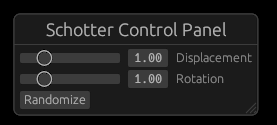
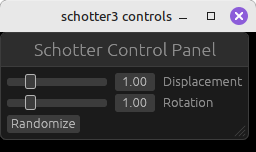
Misc. corrections

diff --git a/schotter4/src/main.rs b/schotter4/src/main.rs
@@ -220,7 +220,7 @@ fn key_pressed(app: &App, model: &mut Model, key: KeyCode) {
 
 fn update_ui(app: &App, model: &mut Model) {
     let ctx = app.egui_for_window(model.ui_window);
-    egui::Window::new("Schotter Control Panel").show(&ctx, |ui| {
+    egui::Window::new("Schotter Control Panel").collapsible(false).show(&ctx, |ui| {
         ui.add(egui::Slider::new(&mut model.disp_adj, 0.0..=5.0).text("Displacement"));
         ui.add(egui::Slider::new(&mut model.rot_adj, 0.0..=5.0).text("Rotation"));
         ui.add(egui::Slider::new(&mut model.motion, 0.0..=1.0).text("Motion"));

diff --git a/schotter3/src/main.rs b/schotter3/src/main.rs
@@ -157,7 +157,7 @@ fn key_pressed(app: &App, model: &mut Model, key: KeyCode) {
 
 fn update_ui(app: &App, model: &mut Model) {
         let ctx = app.egui_for_window(model.ui_window);
-        egui::Window::new("Schotter Control Panel").show(&ctx, |ui| {
+        egui::Window::new("Schotter Control Panel").collapsible(false).show(&ctx, |ui| {
             ui.add(egui::Slider::new(&mut model.disp_adj, 0.0..=5.0).text("Displacement"));
             ui.add(egui::Slider::new(&mut model.rot_adj, 0.0..=5.0).text("Rotation"));
             ui.horizontal(|ui| {

diff --git a/schotter2/src/main.rs b/schotter2/src/main.rs
@@ -139,3 +139,4 @@ fn key_pressed(app: &App, model: &mut Model, key: KeyCode) {
     }
 
 }
+

diff --git a/schotter3.md b/schotter3.md
@@ -9,21 +9,23 @@ As before, we create a new project in our Rust workspace with the command `cargo
 nannou = { workspace = true, features = ["egui"] }
 ```
 
+And copy our schotter2 main.rs code to schotter3 as our starting point. When compiling schotter3 for the first time, it will take a few minutes since Rust needs to compile the egui dependencies and recompile nannou and Bevy with the egui feature enabled.
+
 We still want to be able to save the generated image, and would like to do so without saving the control panel in the image, so we'll put the control panel in a second window. We start by creating that window.
 
 The main window is created in the model function by calling new_window. We just copy that invocation and make a few changes to create a second window:
 
 ```
-    let ui_window = app.new_window()
-                .always_on_top(true)
-                .title(app.exe_name().unwrap() + " controls")
-                .size(280, 130)
-                .view(ui_view)
-                .key_pressed(key_pressed)
-                .build();
+let ui_window = app.new_window()
+            .always_on_top(true)
+            .title(app.exe_name().unwrap() + " controls")
+            .size(280, 130)
+            .view(ui_view)
+            .key_pressed(key_pressed)
+            .build();
 ```
 
-Each window can have its own view and event functions. Here we set the view function to "ui_view". We use the same key_pressed function as for the main window so the keypresses we implemented in schotter2 will work even if the control panel window has the focus. The size is just a guess; we can adjust it later to make it fit the controls. Control panel development is often a process of trying some layout and then tweaking the placements and sizes to look right. We will need the window id when we create the User Interface, so we put it into a variable.
+Each window can have its own view and event functions. Here we set the view function to "ui_view". We use the same key_pressed function as for the main window so the keypresses we implemented in schotter2 will work even if the control panel window has the focus. The size is just a guess; we can adjust it later to make it fit the controls. Control panel development is often a process of trying some layout and then tweaking the placements and sizes to look right. We will need the window Entity when we create the User Interface, so we put it into a variable.
 
 Next, we need to create the new `ui_view` function (which does nothing; the control panel needs to be displayed from the update function so it can change the model variables):
 
@@ -48,20 +50,20 @@ Model {
 There is a problem with nannou version 0.20.0 that only allows egui controls to be displayed in first window that was created. The workaround is simple: make sure ui_window is created first. But to make sure the window where the schotter is displayed is the main window, we add `.primary()` to its new_window call. So here is the code to create the two windows:
 
 ```
-    let ui_window = app.new_window()
-                .always_on_top(true)
-                .title(app.exe_name().unwrap() + " controls")
-                .size(280, 130)
-                .view(ui_view)
-                .key_pressed(key_pressed)
-                .build();
-    let _window = app.new_window()
-                .primary()
-                .title(app.exe_name().unwrap())
-                .size(WIDTH, HEIGHT)
-                .view(view)
-                .key_pressed(key_pressed)
-                .build();
+let ui_window = app.new_window()
+            .always_on_top(true)
+            .title(app.exe_name().unwrap() + " controls")
+            .size(280, 130)
+            .view(ui_view)
+            .key_pressed(key_pressed)
+            .build();
+let _window = app.new_window()
+            .primary()
+            .title(app.exe_name().unwrap())
+            .size(WIDTH, HEIGHT)
+            .view(view)
+            .key_pressed(key_pressed)
+            .build();
 ```
 
 The egui library uses a GUI style called "immediate mode", where the GUI elements (called "widgets") are created and drawn as part of the update/draw loop, which works very well for programs like generative art and games. The alternative used by more traditional applications is "retained mode", where widgets are created during setup and maintained by the graphics library. This can be more efficient, but is also more complex since it requires synchronization between the data and widget states.
@@ -70,8 +72,8 @@ To begin, let's create a gui with a single "Randomize" button which will randomi
 
 ```
 fn update_ui(app: &App, model: &mut Model) {
-    let ctx = app.egui_for_window(model.window);
-    egui::Window::new("Schotter Control Panel").show(&ctx, |ui| {
+    let ctx = app.egui_for_window(model.ui_window);
+    egui::Window::new("Schotter Control Panel").collapsible(false).show(&ctx, |ui| {
         if ui.add(egui::Button::new("Randomize")).clicked() {
             model.random_seed = random_range(0, 1000000);
         }
@@ -79,7 +81,7 @@ fn update_ui(app: &App, model: &mut Model) {
 }
 ```
 
-The first line uses the `egui_for_window` function to get the "context" that we will use to add widgets. Then we create the control panel using `egui::Window::new("Schotter Control Panel")`. 
+The first line uses the `egui_for_window` function to get the egui "context" that we will use to add widgets. Then we create the control panel using `egui::Window::new("Schotter Control Panel")`. By default, egui panels have a button to collapse them to a tab, which is useful if the panel is in the same window as the sketch. But this isn't needed since we are using a separate window, so we include `collapsible(false)`.
 
 The next bit is some Rust magic, called a "closure". We won't get into the Rust details, but this is the syntax we need to build our control panel. The skeleton looks like this:
 
@@ -97,10 +99,10 @@ if ui.add(egui::Button::new("Randomize")).clicked() {
 }
 ```
 
-For our final step, we need to call `update_ui()` from `update()`; we'll add that as the very first line so we can get current values for all the variables:
+For our final step, we need to call `update_ui()` from `update()`; we'll add that as the very first line so we can get current values for all the variables. We will now need the app, so we remove the underscore before it.
 
 ```
-fn update(_app: &App, model: &mut Model) {
+fn update(app: &App, model: &mut Model) {
     update_ui(app, model);
 ```
 
@@ -125,7 +127,7 @@ By default, egui adds new widgets from top to bottom, so we just need to add two
 ```
 fn update_ui(app: &app, model: &mut Model) {
     let ctx = model.ui.begin_frame();
-    egui::Window::new("Schotter Control Panel").show(&ctx, |ui| {
+    egui::Window::new("Schotter Control Panel").collapsible(false).show(&ctx, |ui| {
         ui.add(egui::Slider::new(&mut model.disp_adj, 0.0..=5.0).text("Displacement"));
         ui.add(egui::Slider::new(&mut model.rot_adj, 0.0..=5.0).text("Rotation"));
         if ui.add(egui::Button::new("Randomize")).clicked() {
@@ -143,7 +145,7 @@ That was a lot of effort! The control panel code is as complicated as the genera
 
 Another advantage of a control panel that isn't quite so obvious is that is shows the values of the parameters used. Knowing them is essential if you ever need to replicate a particular output of the program. (Of course, that assumes that you record the values! Perhaps adding a way to save the parameters along with the image would be even better.)
 
-This is already long, but building on the potential need to replicate a particular output, we should show the current random seed value in the panel and allow it to be changed. We'll use another egui widget type for this: a DragValue. Since the seed value and the Randomize button are related, we'll put the DragValue widget to the right of the Randomize button. Widgets in egui are arranged vertically by default; to add a row of widgets, we use the `ui.horizontal()` method, which uses a closure just like the `show()` method:
+This is alrewait()ady long, but building on the potential need to replicate a particular output, we should show the current random seed value in the panel and allow it to be changed. We'll use another egui widget type for this: a DragValue. Since the seed value and the Randomize button are related, we'll put the DragValue widget to the right of the Randomize button. Widgets in egui are arranged vertically by default; to add a row of widgets, we use the `ui.horizontal()` method, which uses a closure just like the `show()` method:
 
 ```
 ui.horizontal(|ui| {

diff --git a/schotter4.md b/schotter4.md
@@ -61,6 +61,9 @@ If stone.cycles is greater than 0, we just add the velocity values to the curren
 
 ```
 fn update(_app: &App, model: &mut Model, _update: Update) {
+    if app.window_count() < 2 {
+        app.quit();
+    }
     update_ui(app, model);
     let mut rng = StdRng::seed_from_u64(model.random_seed);
     for stone in &mut model.gravel {
@@ -68,10 +71,10 @@ fn update(_app: &App, model: &mut Model, _update: Update) {
             let factor = stone.y / ROWS as f32;
             let disp_factor = factor * model.disp_adj;
             let rot_factor = factor * model.rot_adj;
-            let new_x = disp_factor * rng.gen_range(-0.5..0.5);
-            let new_y = disp_factor * rng.gen_range(-0.5..0.5);
-            let new_rot = rot_factor * rng.gen_range(-PI / 4.0..PI / 4.0);
-            let new_cycles = rng.gen_range(50..300);
+            let new_x = disp_factor * rng.random_range(-0.5..0.5);
+            let new_y = disp_factor * rng.random_range(-0.5..0.5);
+            let new_rot = rot_factor * rng.random_range(-PI / 4.0..PI / 4.0);
+            let new_cycles = rng.random_range(50..300);
             stone.x_velocity = (new_x - stone.x_offset) / new_cycles as f32;
             stone.y_velocity = (new_y - stone.y_offset) / new_cycles as f32;
             stone.rot_velocity = (new_rot - stone.rotation) / new_cycles as f32;
@@ -95,10 +98,10 @@ When I first coded this, I puzzled for awhile why it didn't produce random resul
 Now that we are animating it, we don't want to repeat the random numbers. One way to fix this is to add rng, our seeded random number generator, to the model, initializing it with the seed in the model() function, and reinitializing it whenever we press 'R' or click Randomize. But it is probably easier just to abandon the seeded random number generator and use the nannou random_range() function to generate them. Let's try that, replacing the four occurrences of `rng.random_range()` with `random_range()` (also replacing the single range with two arguments):
 
 ```
-  let new_x = disp_factor * random_range(-0.5, 0.5);
-  let new_y = disp_factor * random_range(-0.5, 0.5);
-  let new_rot = rot_factor * random_range(-PI / 4.0, PI / 4.0);
-  let new_cycles = random_range(50, 300);
+let new_x = disp_factor * random_range(-0.5, 0.5);
+let new_y = disp_factor * random_range(-0.5, 0.5);
+let new_rot = rot_factor * random_range(-PI / 4.0, PI / 4.0);
+let new_cycles = random_range(50, 300);
 ```
 
 Now compiling will give some warnings about the unused library Rng and the unused variable rng, but it does appear to work like we expect. The squares constantly rotate and move around, forming continually changing random patterns. It's fun to watch. Changing the sliders doesn't have an immediate effect like before; squares still move to their original targets. But the new targets will be controlled by the new settings, so after a few seconds the effects of the changes will be seen.
@@ -120,6 +123,7 @@ if stone.cycles == 0 {
         stone.cycles = random_range(50, 300);
     } else {
       // generate new velocity values as before
+    }
 ```
 
 A simple change, but I think it looks nicer when not all of the squares are moving at once. Of course, you may have a different opinion! And my opinion will change from time to time. So let's add a control to specify how often squares will be still. Instead of using random(), which just randomly returns true or false with a 50% chance, we'll use random_f32(), which returns a random value between 0 and 1, and compare that to a probability we will set with a slider.
@@ -131,7 +135,7 @@ Now we add the slider (and a label for it). There is conveniently a space in the
 ```
 fn update_ui(model: &mut Model) {
     let ctx = app.egui_for_window(model.main_window);
-    egui::Window::new("Schotter Control Panel").show(&ctx, |ui| {
+    egui::Window::new("Schotter Control Panel").collapsible(false).show(&ctx, |ui| {
         ui.add(egui::Slider::new(&mut model.disp_adj, 0.0..=5.0).text("Displacement"));
         ui.add(egui::Slider::new(&mut model.rot_adj, 0.0..=5.0).text("Rotation"));
         ui.add(egui::Slider::new(&mut model.motion, 0.0..=1.0).text("Motion"));
@@ -199,29 +203,22 @@ The `fs::create_dir()` function will create the directory and return a `Result`,
 
 Now we have the infrastructure needed to record a frame sequence; we just need to add code to do the actual recording. Since it needs to be done for each frame, we add it to update(), after the for loop.
 
-First we increment cur_frame and use it to create the filename:
+First we check if we are recording. If so, we increment cur_frame and use it to create the filename, then we save a screenshot to that file:
 
 ```
-model.cur_frame += 1;
-let filename = format!("{}/schotter{:>04}.png",
-    model.frames_dir,
-    model.cur_frame);
-```
-
-Then we copy the Key::S code from key_pressed() and change it to use the right filename:
-
-```
-match app.window(model.main_window) {
-    Some(window) => {
-        window.save_screenshot(filename);
-    }
-    None => {}
+if model.recording {
+    model.cur_frame += 1;
+    let filename = format!("{}/schotter{:>04}.png",
+        model.frames_dir,
+        model.cur_frame);
+    app.main_window().save_screenshot(filename);
 }
 ```
 
-Since update() now uses the "app" parameter, we need to remove the underscore from the parameter in the header. And we only capture frames if we are recording. But there are two subtle issues we need to incorporate:
+This is the basic recording code, but there are two subtle issues we need to incorporate:
 
 * The nannou loop rate is 60 times per second, but the typical video frame rate is 30 frames per second. So we only want to capture every other frame. We do this by checking if app.elapsed_frames() is even.
+
 * We only use four digit frame numbers, so need to stop recording when cur_frame exceeds 9999. (That's just over five and a half minutes at 30 frames/second. If we want a longer video, we need to use more digits.)
 
 Here is the final code segment added to update():
@@ -235,12 +232,7 @@ if model.recording && app.elapsed_frames() % 2 == 0 {
         let filename = format!("{}/schotter{:>04}.png",
             model.frames_dir,
             model.cur_frame);
-        match app.window(model.main_window) {
-            Some(window) => {
-                window.capture_frame(filename);
-            }
-            None => {}
-        }
+        app.main_window().save_screenshot(filename);
     }
 }
 ```

diff --git a/schotter1.md b/schotter1.md
@@ -47,7 +47,7 @@ Function main is where Rust starts the program. Its single line says to create a
 
 Function view() implements the main logic of the sketch. For sketches, it has one parameter: an App which we assign to variable app. The App contains the nannou context, including the APIs and windows.
 
-The first line of view assigns the application's Draw interface to the variable "draw". The other three lines then use this Draw interface to perform drawing operations: setting the background to "PLUM" and drawing a "STEELBLUE" circle.
+The first line of view assigns the application's Draw interface to the variable "draw". The other three lines then use this Draw interface to perform drawing operations: setting the background to "PLUM" and drawing a "STEEL_BLUE" circle.
 
 The template is a great starting point, and running it shows we have everything set up correctly. Now we'll change it to draw something that looks like Schotter. 
 
@@ -86,7 +86,7 @@ In particular, Draw implements the following functions (among others) that we ca
 
 We won't need to rotate, so we'll ignore that one, but we do need to scale and translate to get the coordinate system we want. We can choose to translate then scale, or to scale then translate, but the translation values will be different. If we translate first, we use unscaled coordinates; if we scale first, we use scaled coordinates. Scaling first is usually the most logical, and is what we will do.
 
-We need to change from 1 pixel per unit to SIZE pixels per unit, so we use `scale(SIZE as f32)` (all these functions take floating point arguments). We also want to flip y so that positive values go down instead of up. We do this by scaling y by -1: `scale_y(-1.0)`. The scale is now what we want, but the origin is in the center, between squares, instead of the middle of the top left square, so we translate x by COLS/2 + 1/2 and y by ROWS/2 + 1/2 (the 1/2 is to move it from the corner to the center of the square). But we first need to convert the integers to floating point: `x_y(COLS as f32 / -2.0 + 0.5, ROWS as f32 / -2.0 + 0.5)`. We chain these together and assign the result to a new variable gdraw (for grid draw), like this:
+We need to change from 1 pixel per unit to SIZE pixels per unit, so we use `scale(SIZE as f32)` (all these functions take floating point arguments). We also want to flip y so that positive values go down instead of up. We do this by scaling y by -1: `scale_y(-1.0)`. The scale is now what we want, but the origin is in the center, between squares, instead of the middle of the top left square, so we translate x by COLS/2 + 1/2 and y by ROWS/2 + 1/2 (the 1/2 is to move it from the corner to the center of the square). But we first need to convert the integers to floating point: `x_y(COLS as f32 / -2.0 + 0.5, ROWS as f32 / -2.0 + 0.5)`. We chain these together and assign the result to a new variable gdraw (for grid draw), like this (these lines go at the beginning of the `view` function):
 
 ```
 let draw = app.draw();

diff --git a/schotter2.md b/schotter2.md
@@ -2,7 +2,7 @@
 
 With schotter1, we made a very basic program that just generated a pattern, displayed it on the screen, and waited for us to close the program. To get a different pattern, we need to re-run the program. To tweak the design, we need to change the code and recompile it. This is basically what Georg Nees had to do! But modern technology lets us do better.
 
-The goal of schotter2 is to add some parameters to schotter1 so we can try different patterns and make some design adjustments while the program is running. This make it much easier to find nice designs. For now, we will limit our interaction to key presses; we'll make a more convenient control panel in schotter3.
+The goal of schotter2 is to add some parameters to schotter1 so we can try different patterns and make some design adjustments while the program is running. This makes it much easier to find nice designs. For now, we will limit our interaction to key presses; we'll make a more convenient control panel in schotter3.
 
 Specifically, we will implement the following commands by pressing the appropriate keys:
 * R: randomize the pattern
@@ -87,10 +87,10 @@ struct Model {
 Whenever we change the Model, we need to change the model function to initialize this value. We'll start it with a random integer between 0 and 1,000,000. So the last line of function model is changed to the following:
 
 ```
-    let random_seed = random_range(0, 1000000);
-    Model {
-        random_seed,
-    }
+let random_seed = random_range(0, 1000000);
+Model {
+    random_seed,
+}
 ```
 
 The simple random number generator we used in schotter1 is included in the nannou prelude, so we can use it directly. But to use the seedable RNG we need to add two more use statements to the beginning of the program:
@@ -101,7 +101,7 @@ use nannou::rand::rngs::StdRng;
 use nannou::rand::{RngExt, SeedableRng};
 ```
 
-Then, near the beginning of the view function where we set up the variables used in the function, we need to create a RNG from the seed, with this statement:
+Then we need to create a RNG from the seed in the view function, before the for loops, using this statement:
 
 ```
 let mut rng = StdRng::seed_from_u64(model.random_seed);
